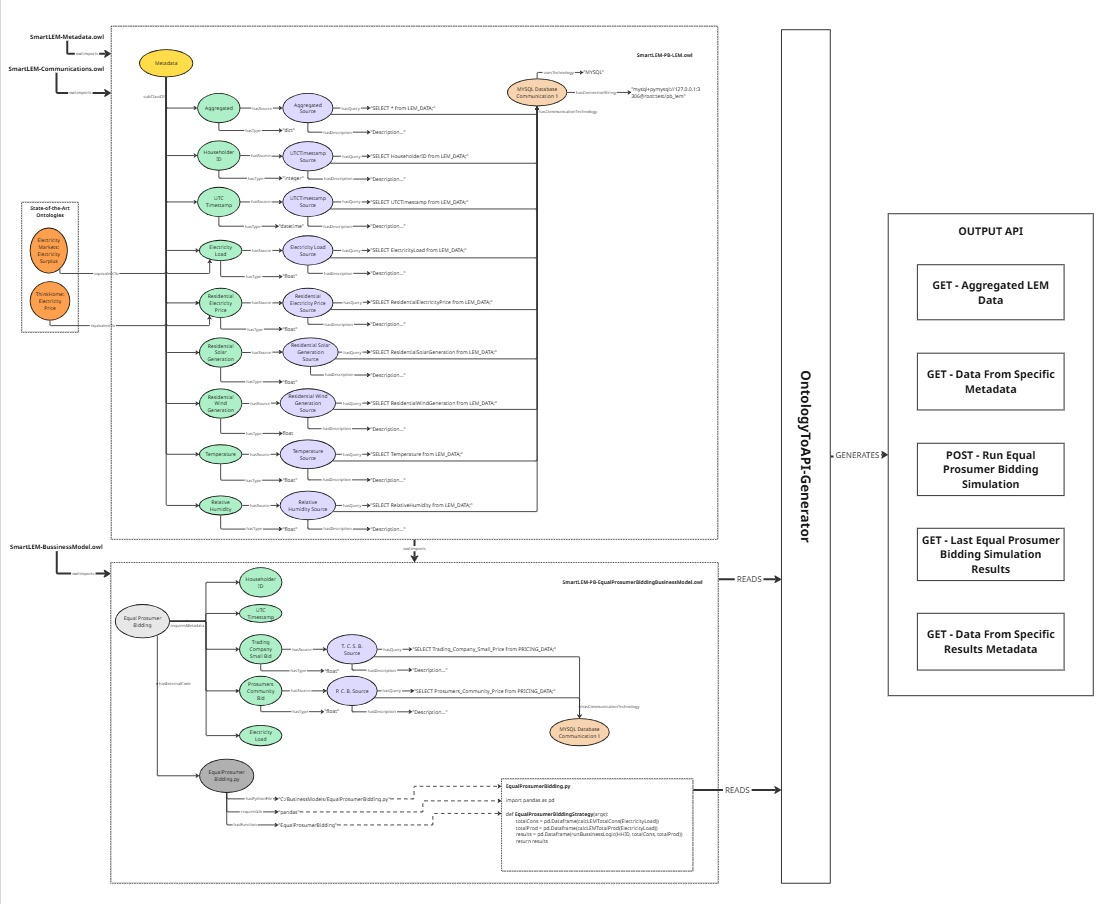
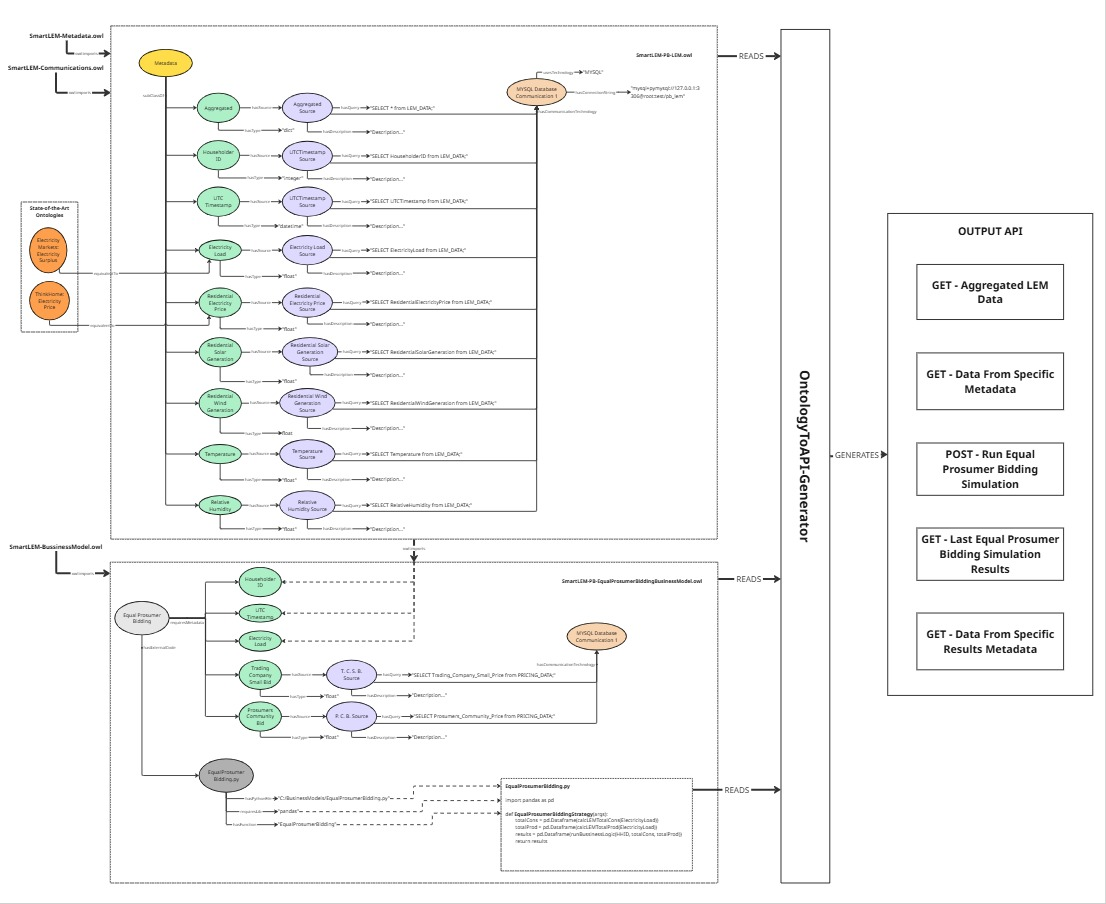
fix/images
- fix the realization ontology images

diff --git a/runAPI.py b/runAPI.py
@@ -2,7 +2,7 @@ import uvicorn
 from Generator.APIGenerator import Generator
 
 if __name__ == "__main__":
-    APIGen = Generator(showLogs=True)
+    APIGen = Generator(showLogs=False)
     APIGen.load_ontologies(paths=[
         "Samples/PB_UseCase/RealizationOntologies/SmartLEM-PB_LEM.ttl"
     ])
